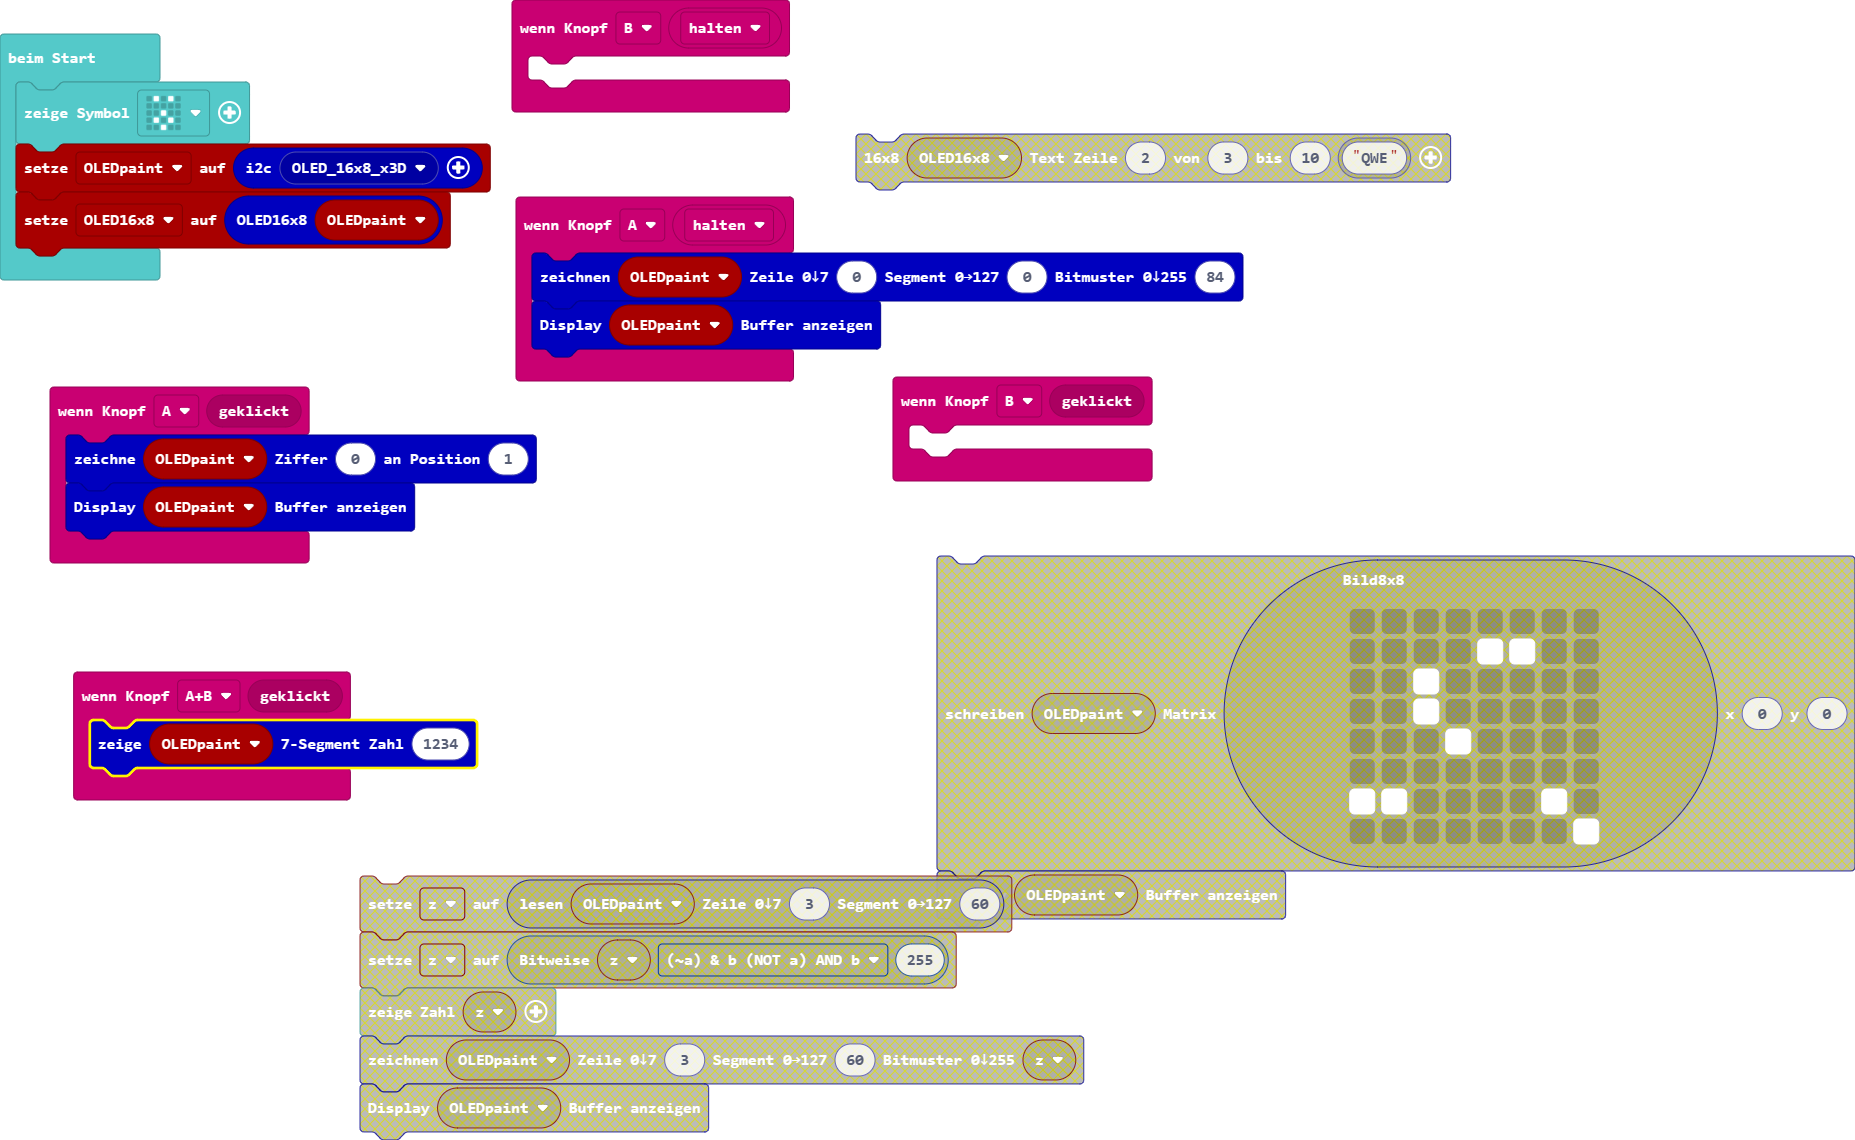
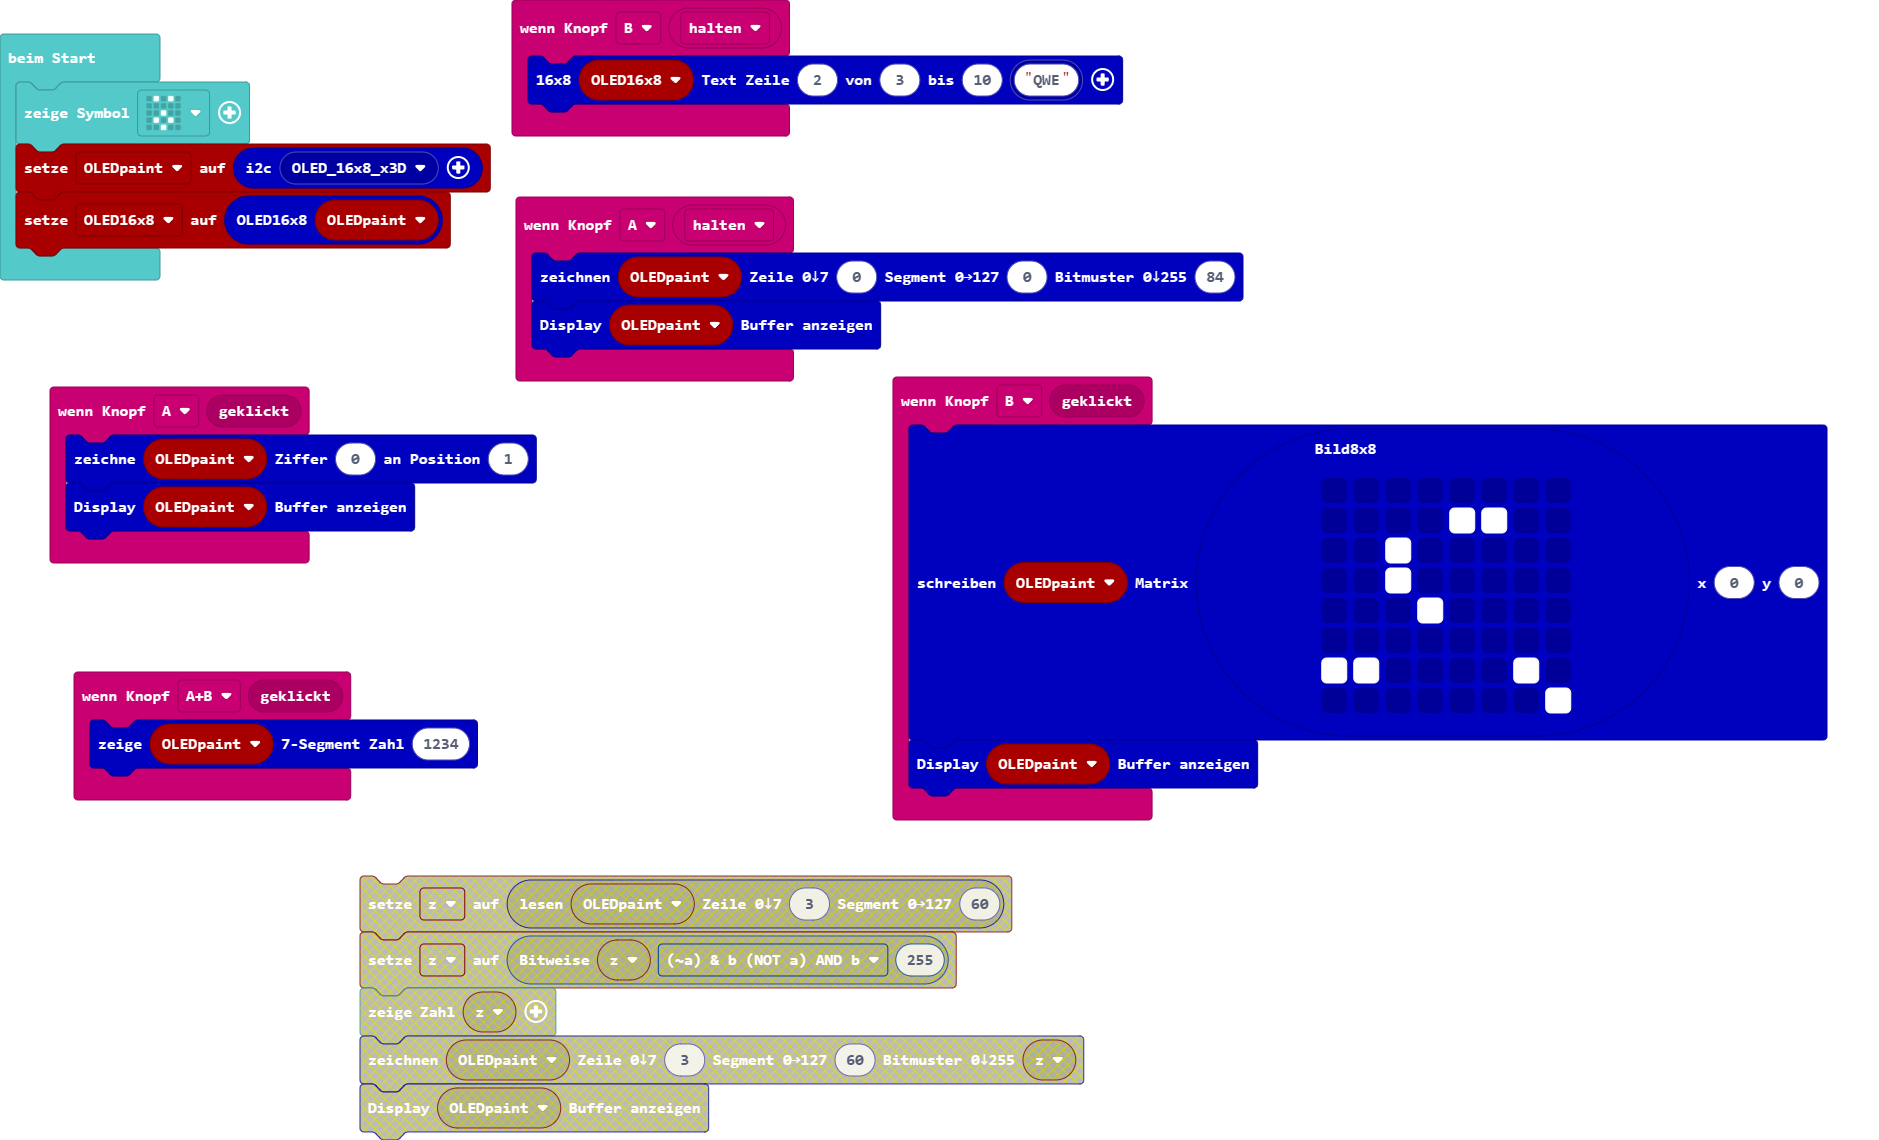
Aktualisiere pxt.json, main.blocks, main.ts

diff --git a/main.ts b/main.ts
@@ -6,16 +6,27 @@ input.onButtonEvent(Button.AB, input.buttonEventClick(), function () {
     OLEDpaint.zeigeZahl(1234)
 })
 input.onButtonEvent(Button.B, input.buttonEventClick(), function () {
-	
+    OLEDpaint.writeImageOLED(oledssd1315.matrix8x8(`
+        . . . . . . . .
+        . . . . # # . .
+        . . # . . . . .
+        . . # . . . . .
+        . . . # . . . .
+        . . . . . . . .
+        # # . . . . # .
+        . . . . . . . #
+        `), 0, 0)
+    OLEDpaint.sendBuffer()
 })
 input.onButtonEvent(Button.A, ButtonEvent.Hold, function () {
     OLEDpaint.writeSegment(0, 0, 84)
     OLEDpaint.sendBuffer()
 })
 input.onButtonEvent(Button.B, ButtonEvent.Hold, function () {
-	
+    OLED16x8.writeText16x8(2, 3, 10, oledssd1315.oledssd1315_text("QWE"))
 })
+let OLED16x8: oledssd1315.oledclass = null
 let OLEDpaint: oledssd1315.oledpaint = null
 basic.showIcon(IconNames.Surprised)
 OLEDpaint = oledssd1315.new_oledpaint(oledssd1315.oledssd1315_eADDR(oledssd1315.eADDR.OLED_16x8_x3D))
-let OLED16x8 = OLEDpaint.return_oledclass()
+OLED16x8 = OLEDpaint.return_oledclass()
